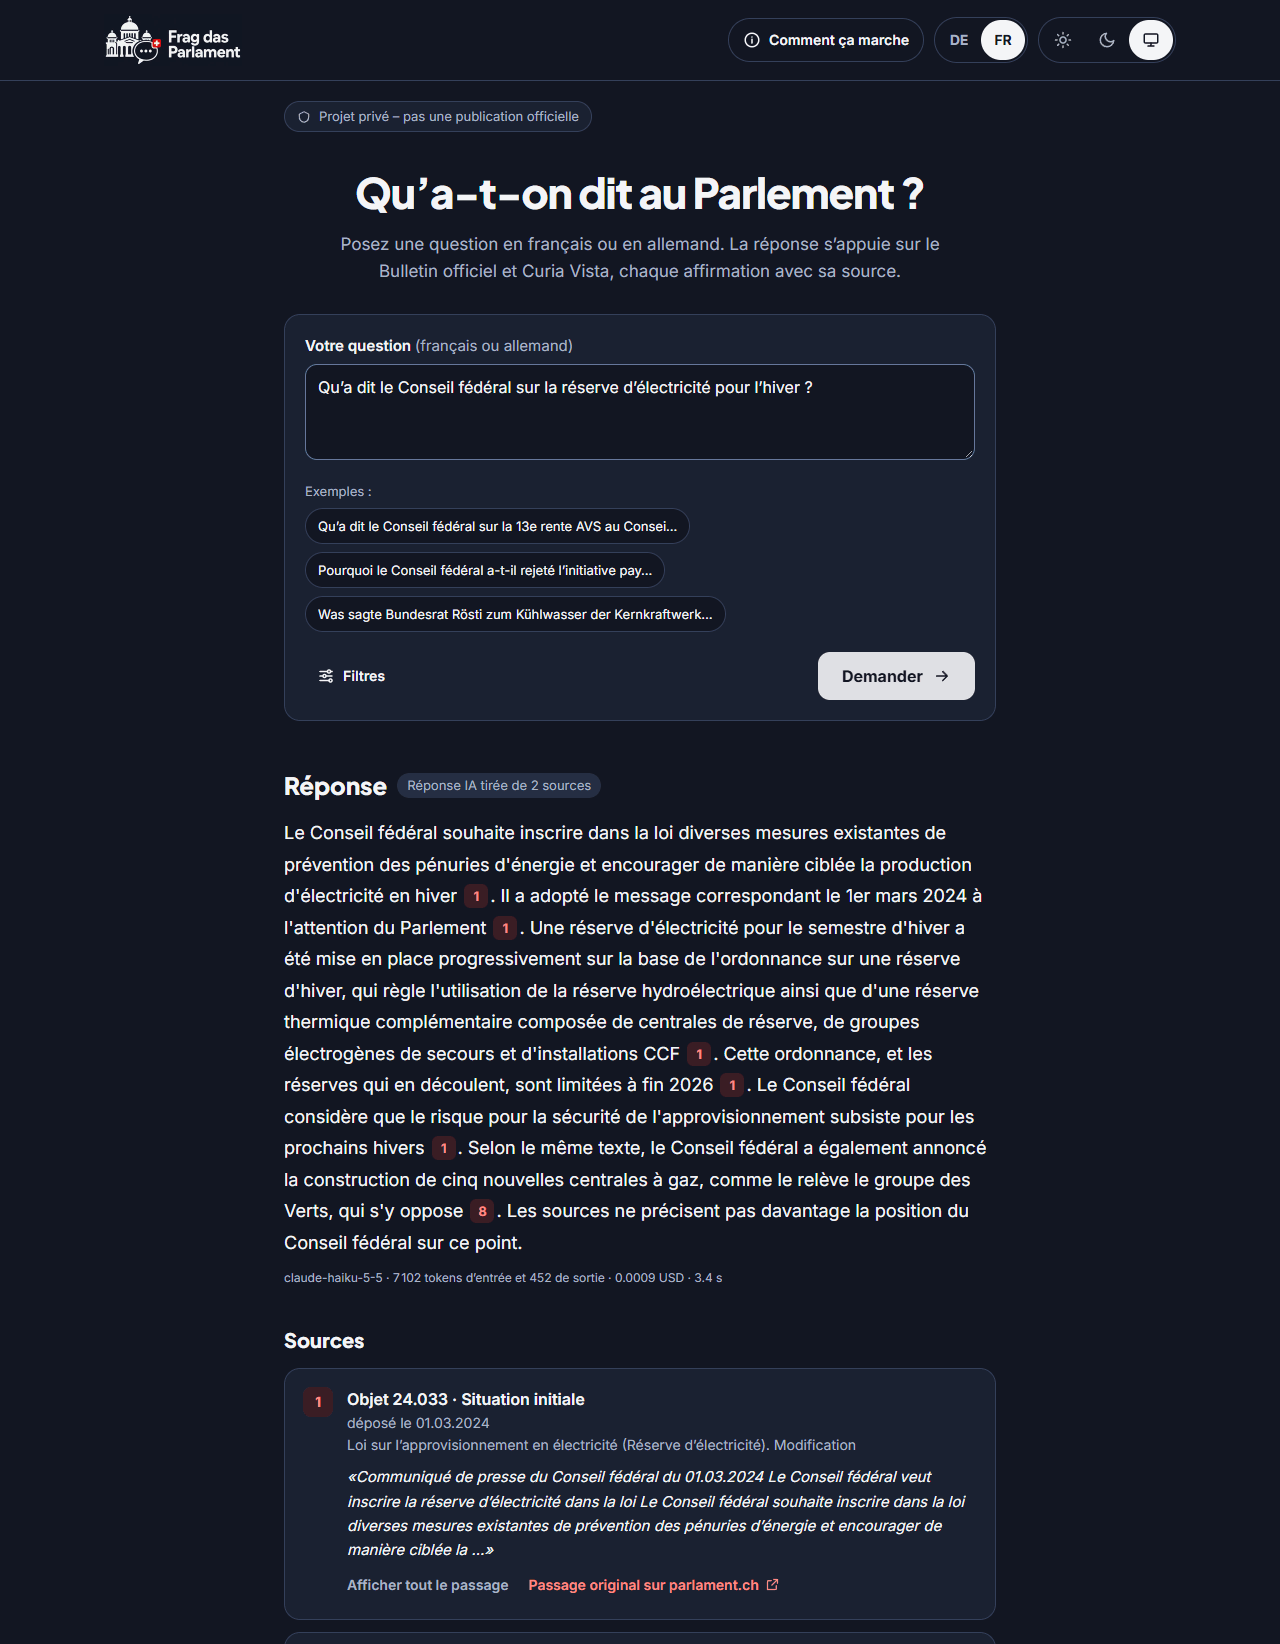
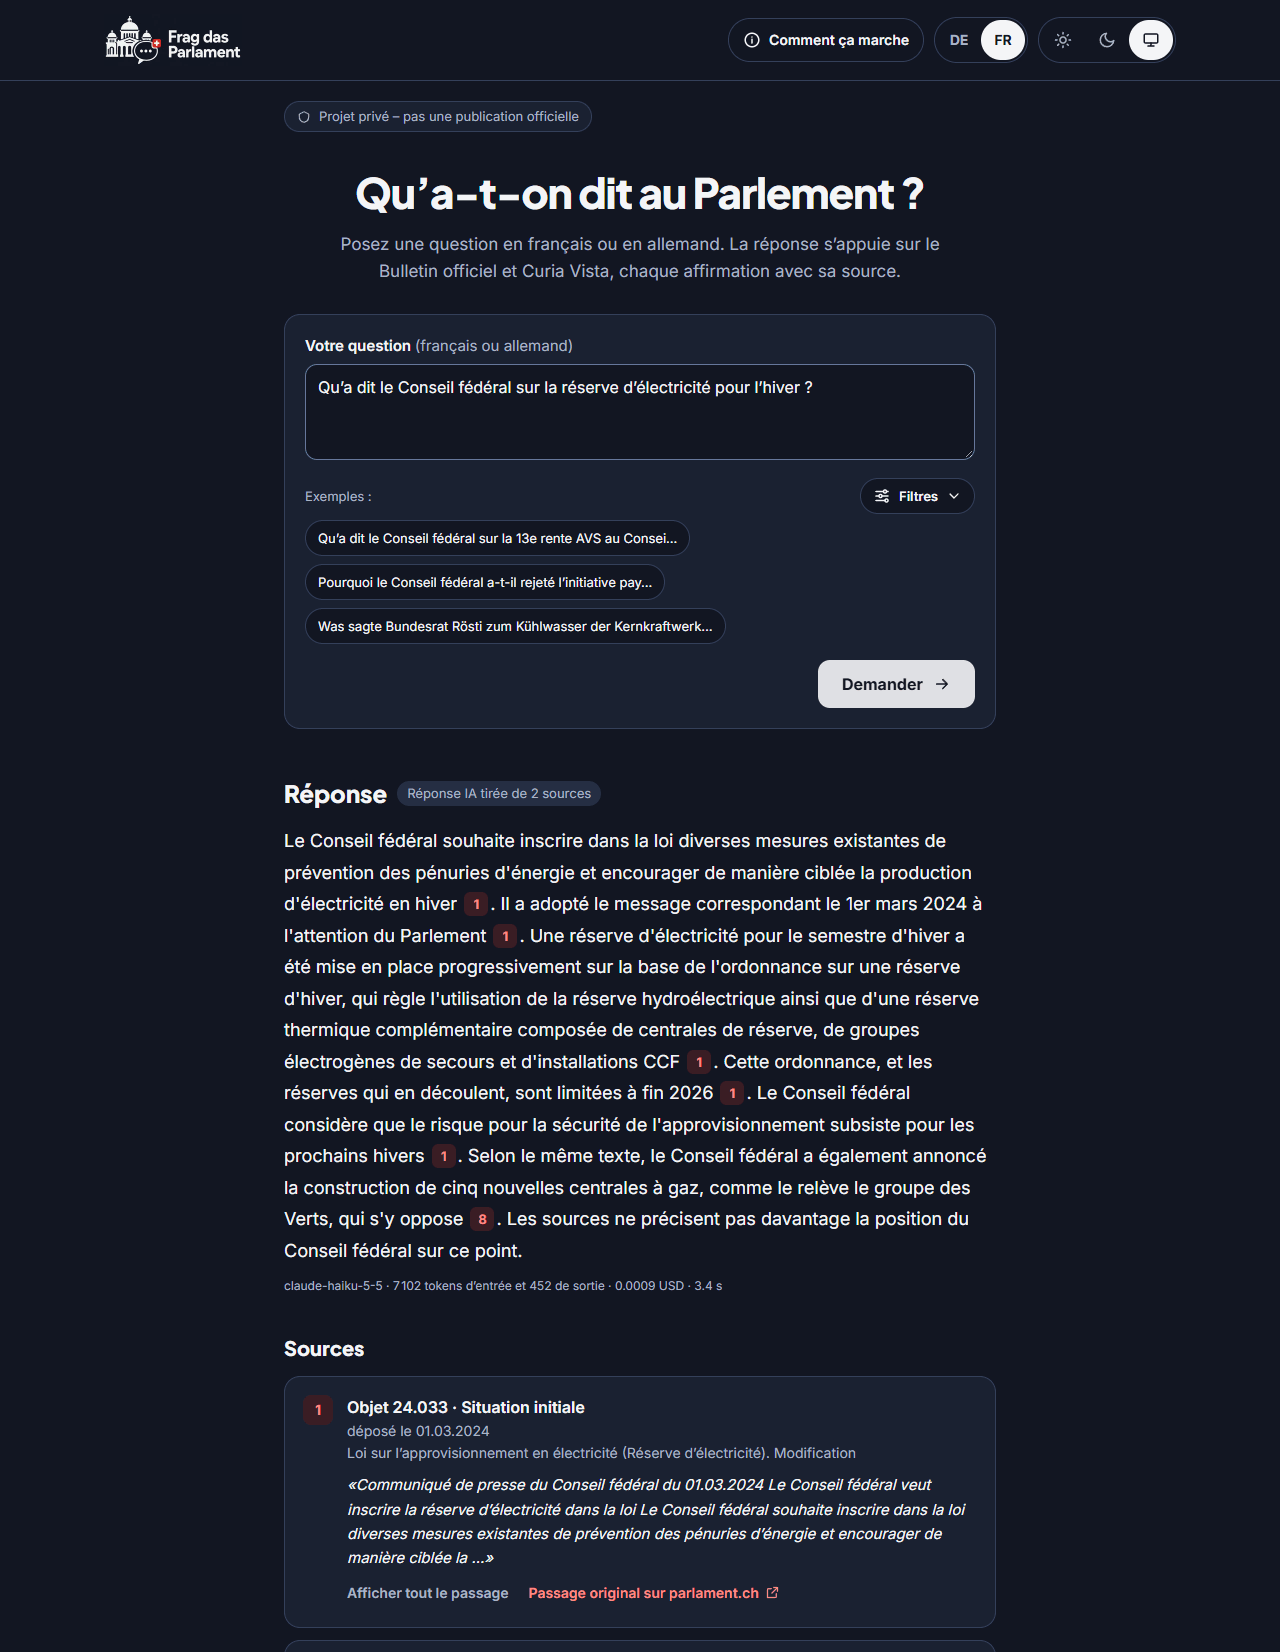
docs: refresh screenshots for the filter pill

diff --git a/README.md b/README.md
@@ -318,7 +318,7 @@ Die Antwort enthält `answer` mit den Belegen [n], `sources` (pro Nummer Dokumen
 
 ### Web-UI
 
-Die Oberfläche (http://127.0.0.1:8080) zeigt Frage mit Beispielen, Filter (Rat, Zeitraum, Fraktion), die Antwort mit klickbaren Zitat-Marken und die Quellen mit Redner, Rat, Datum, Geschäftsnummer, Ausschnitt und Link auf parlament.ch, dazu Datenquelle und Lizenz.
+Die Oberfläche (http://127.0.0.1:8080) zeigt Frage mit Beispielen, aufklappbare Filter (Rat, Fraktion, Zeitraum; die Zahl der aktiven Filter steht auf dem Knopf), die Antwort mit klickbaren Zitat-Marken und die Quellen mit Redner, Rat, Datum, Geschäftsnummer, Ausschnitt und Link auf parlament.ch, dazu Datenquelle und Lizenz.
 
 - **Kopfzeile:** Logo, Knopf «So funktioniert's» (Datenquelle, Vorgehen, Grenzen, Datenschutz), Umschalter DE/FR und Darstellung (Hell, Dunkel, wie System). Beide Einstellungen bleiben im Browser gespeichert; ohne Wahl gelten Sprache und Farbschema des Systems.
 - **Sprache:** Die Oberfläche spricht Deutsch oder Französisch, auch die Meldungen der API (über den Fehlercode). Die Antwort kommt immer in der Sprache der Frage.
